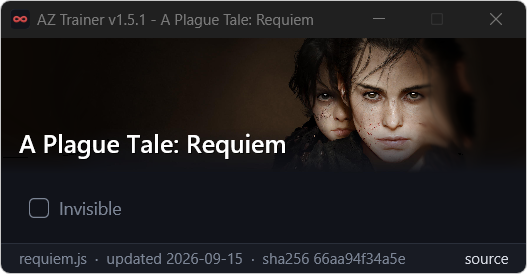
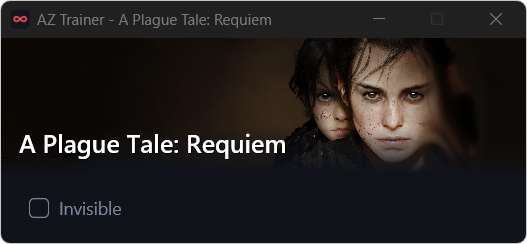
Previews leave out the version and status bar; retake screenshots
Previews make the README and website screenshots. Without the version in the title and the status bar's update date, checksum and source link, a release or a script edit no longer dates them.

diff --git a/src/main.rs b/src/main.rs
@@ -30,8 +30,20 @@ use gpui::{
 /// Displayed as "AZ Trainer v1.0.1"; the value comes from Cargo.toml.
 const VERSION: &str = env!("CARGO_PKG_VERSION");
 
+/// "AZ Trainer v1.5.2", or just "AZ Trainer" in a preview: previews make the
+/// README and website screenshots, which should not go stale with every
+/// release.
 fn app_title() -> String {
-    format!("AZ Trainer v{VERSION}")
+    if previewing() {
+        "AZ Trainer".into()
+    } else {
+        format!("AZ Trainer v{VERSION}")
+    }
+}
+
+fn previewing() -> bool {
+    static PREVIEW: std::sync::OnceLock<bool> = std::sync::OnceLock::new();
+    *PREVIEW.get_or_init(|| preview_arg().is_some())
 }
 
 const BG: u32 = 0x11131a;

diff --git a/src/engine.rs b/src/engine.rs
@@ -83,6 +83,11 @@ impl Engine {
                 let level = vec![0; script.options.len()];
                 if let Ok(mut st) = s.lock() {
                     publish(&mut st, &script, level);
+                    // Previews make the published screenshots: no status bar,
+                    // since its update date, checksum and link would date
+                    // them with every script edit.
+                    st.config_info = None;
+                    st.config_rel = None;
                 }
                 nap(&q, Duration::MAX);
             }
